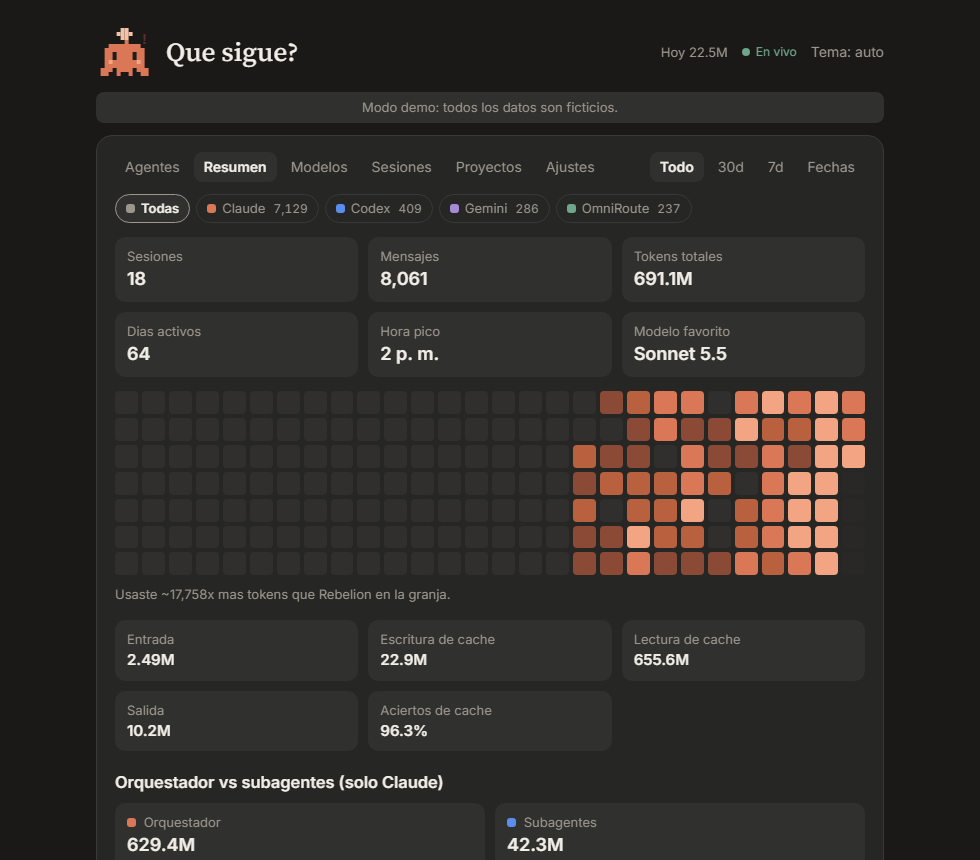
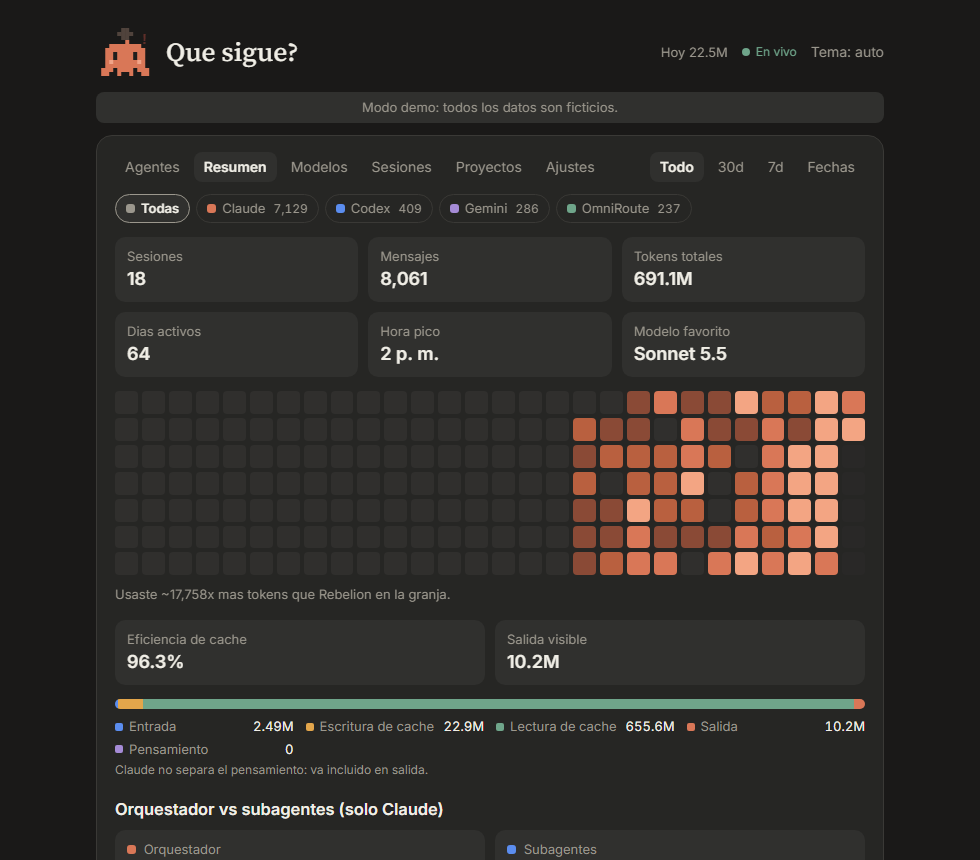
docs: actualiza las capturas del demo con niveles y aviso de version

diff --git a/README.md b/README.md
@@ -120,7 +120,7 @@ Abre `http://127.0.0.1:4318`.
   </tr>
   <tr>
     <td><img src="docs/screenshots/ajustes.png" alt="Pestaña de ajustes" /></td>
-    <td><img src="docs/screenshots/agentes.png" alt="Agentes: límites por fuente y agentes en vivo" /></td>
+    <td><img src="docs/screenshots/agentes.png" alt="Agentes: nivel de consumo, ritmo, proyección, límites y agentes en vivo" /></td>
   </tr>
   <tr>
     <td align="center"><sub>Ajustes dentro del dashboard</sub></td>
@@ -157,7 +157,7 @@ Si un agente de Codex trabaja (según el hook), Chispa muestra una insignia de C
 Al tocarla se abre el panel de chats activos. Si abres el dashboard desde ahí, la mascota se oculta y vuelve cuando lo cierras.
 
 </td>
-    <td><img src="docs/screenshots/mascota.png" alt="Panel de la mascota con chats activos" width="300" /></td>
+    <td><img src="docs/screenshots/mascota.png" alt="Mascota con el nivel de consumo y el aviso de versión nueva" width="300" /></td>
   </tr>
 </table>
 

diff --git a/README.pt-BR.md b/README.pt-BR.md
@@ -120,7 +120,7 @@ Abra `http://127.0.0.1:4318`.
   </tr>
   <tr>
     <td><img src="docs/screenshots/ajustes.png" alt="Aba de ajustes" /></td>
-    <td><img src="docs/screenshots/agentes.png" alt="Agentes: limites por fonte e agentes ao vivo" /></td>
+    <td><img src="docs/screenshots/agentes.png" alt="Agentes: nível de consumo, ritmo, projeção, limites e agentes ao vivo" /></td>
   </tr>
   <tr>
     <td align="center"><sub>Ajustes dentro do dashboard</sub></td>
@@ -157,7 +157,7 @@ Se um agente do Codex trabalha (segundo o hook), Chispa mostra um selo do Codex.
 Toque nele para abrir o painel de chats ativos. Se abrir o dashboard a partir daí, o mascote se oculta e volta quando você o fecha.
 
 </td>
-    <td><img src="docs/screenshots/mascota.png" alt="Painel do mascote com chats ativos" width="300" /></td>
+    <td><img src="docs/screenshots/mascota.png" alt="Mascote com o nível de consumo e o aviso de versão nova" width="300" /></td>
   </tr>
 </table>
 

diff --git a/README.en.md b/README.en.md
@@ -120,7 +120,7 @@ Open `http://127.0.0.1:4318`.
   </tr>
   <tr>
     <td><img src="docs/screenshots/ajustes.png" alt="Settings tab" /></td>
-    <td><img src="docs/screenshots/agentes.png" alt="Agents: limits per source and live agents" /></td>
+    <td><img src="docs/screenshots/agentes.png" alt="Agents: usage level, burn rate, projection, limits and live agents" /></td>
   </tr>
   <tr>
     <td align="center"><sub>Settings inside the dashboard</sub></td>
@@ -157,7 +157,7 @@ If a Codex agent is working (according to the hook), Chispa shows a Codex badge.
 Touch it to open the active chats panel. If you open the dashboard from there, the mascot hides and comes back when you close it.
 
 </td>
-    <td><img src="docs/screenshots/mascota.png" alt="Mascot panel with active chats" width="300" /></td>
+    <td><img src="docs/screenshots/mascota.png" alt="Mascot with usage level and new-version notice" width="300" /></td>
   </tr>
 </table>
 
